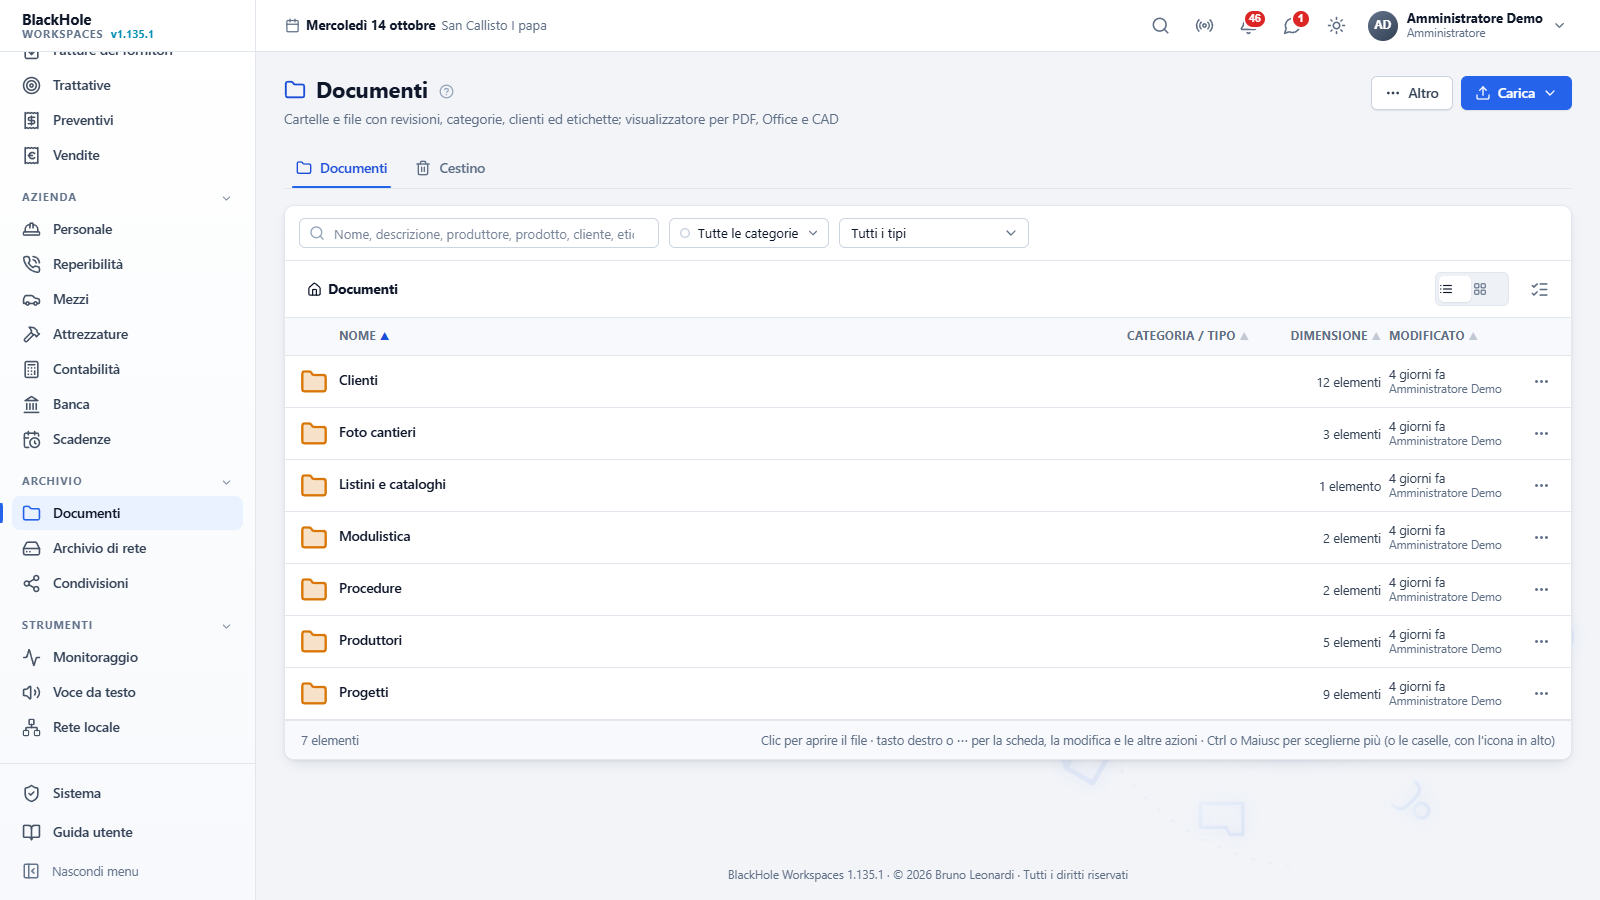
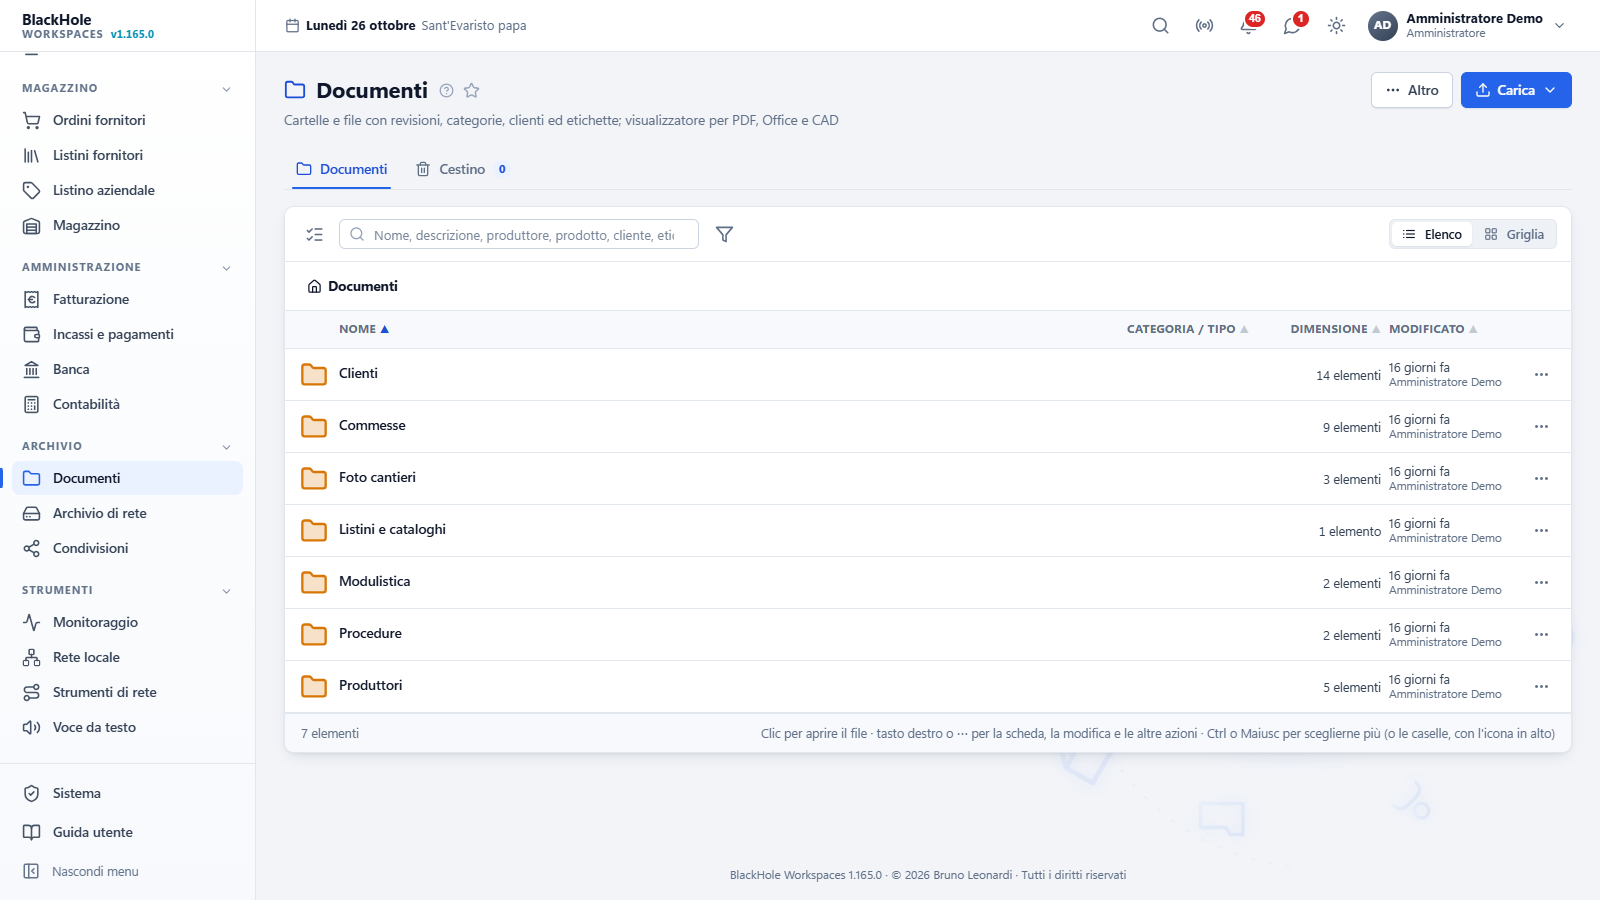
BlackHole Workspaces 1.165.0: attività e ore dei progetti, materiale della commessa, policy per reparto; immagini della guida rifatte con dati inventati

diff --git a/docs/guida/gruppi-policy.md b/docs/guida/gruppi-policy.md
@@ -60,7 +60,7 @@ Nella scheda di una policy i permessi sono raggruppati per area, ciascuno con la
 | Responsabile dei clienti | Modificare tutti i clienti · Creare clienti · Eliminare qualsiasi cliente · Svuotare il cestino dei clienti · Gestire i gruppi di clienti · Esportare · Importare. |
 | Rubrica personale | Rubrica personale (con Esportare e Importare, se servono). |
 | Gestione del personale | Creare utenti · Modificare gli utenti · Gestire la sicurezza degli utenti. |
-| Tecnico | Vedere le commesse (vede i cantieri e le loro attività; sulle proprie attività lavora e registra le ore anche senza permessi). La policy proposta **Tecnici** è il punto di partenza completo. |
+| Tecnico | Vedere le commesse (vede i cantieri e le loro attività; sulle proprie attività lavora e registra le ore anche senza permessi). La policy proposta **Squadre in campo** è il punto di partenza per chi lavora sul campo. |
 | Capo commessa | Creare commesse · Gestire le attività delle commesse · Vedere le ore di tutti. |
 | Direzione lavori | Gestire tutte le commesse · Gestire tutte le attività · Vedere le ore di tutti. |
 | Password del reparto | Condividere le password (comprende Usare la gestione password). |
@@ -88,19 +88,23 @@ Chi lavora sul campo non deve arrivare ai dati amministrativi. Per questo alcuni
 - **Vedere la contabilità**: prima nota, IVA, mastrini e bilancio.
 - **Budget e consuntivo delle commesse**: ricavi, costi e margini delle commesse, con il costo delle ore.
 
-Nessun permesso riservato si concede da solo: anche chi ha tutto il resto di un'area non li ha finché non vengono spuntati. Il resto del programma non mostra importi: le ore delle attività, le scadenze dell'azienda, l'assistenza e le manutenzioni non ne hanno; il listino mostra i prezzi di vendita a chi ha *Vedere il listino*, che le policy proposte non danno ai tecnici.
+Nessun permesso riservato si concede da solo: anche chi ha tutto il resto di un'area non li ha finché non vengono spuntati. Il resto del programma non mostra importi: le ore delle attività, le scadenze dell'azienda, l'assistenza e le manutenzioni non ne hanno; il listino mostra i prezzi di vendita a chi ha *Vedere il listino*, che le policy proposte danno solo a Progettazione e Acquisti.
 
-**Policy proposte**, nella pagina Policy, apre quattro policy già pensate, da creare con un clic e poi adattare (si aprono nella scheda, dove si controllano i permessi prima di crearle; non sono applicate a nessun gruppo finché non lo decidi tu):
+**Policy proposte**, nella pagina Policy, apre una policy per reparto, da creare con un clic e poi adattare (si aprono nella scheda, dove si controllano i permessi prima di crearle; non sono applicate a nessun gruppo finché non lo decidi tu). Quello che un reparto non ha dentro e gli serve si dà a mano: la scheda di ogni policy dice quale.
 
 | Policy | Per chi | Dati riservati |
 | --- | --- | --- |
-| Ufficio | Chi segue clienti, commesse, impianti, certificazioni, assistenza, mezzi, listino, magazzino, acquisti, preventivi, DDT e bozze delle fatture: tutto il lavoro d'ufficio, con documenti, progetti, personale (senza retribuzioni), scadenze, monitoraggio, password e assistente AI. | Dati amministrativi dei clienti, costi dei mezzi, listino completo (e quindi costi e margini dei preventivi). |
-| Amministrazione | Chi fa i conti: clienti con i dati amministrativi e la valutazione, personale con retribuzioni e documenti personali, costi dei mezzi, listino, magazzino e acquisti (in lettura), fatture, incassi e fattura elettronica, budget e consuntivo delle commesse, scadenze dell'azienda, ore di tutti, registro attività. | Tutti. |
-| Tecnici | Chi lavora sul campo: vede clienti, documenti e commesse, gestisce impianti e schede tecniche, compila certificazioni, registra manutenzioni e assistenza, usa i mezzi e la merce del proprio furgone, le password e l'assistente AI. | Nessuno. |
+| Reception | Il banco e il telefono: apre e pianifica le richieste di assistenza, vede la reperibilità e le scadenze, crea e corregge i clienti. Da dare a mano, se servono: Gestire l'assistenza e Gestire la reperibilità. | Nessuno. |
+| Progettazione (ufficio tecnico) | Preventivi, commesse con le loro attività, impianti, pratiche, certificazioni, manutenzioni e listino in lettura. Il SAL e il budget della commessa si danno a mano all'ingegnere che li prepara; emettere le certificazioni (di solito il responsabile tecnico) si dà a mano. | Nessuno. |
+| Acquisti | Ordini e richieste d'offerta, solleciti, prezzi da verificare, listini dei fornitori con gli sconti, listino aziendale e magazzino in lettura. Per registrare l'arrivo della merce serve a mano Registrare i movimenti del magazzino. | Vedere gli acquisti e Costi e ricarichi del listino. |
+| Magazziniere | Movimenti in tutti i magazzini e nei furgoni, inventari e riordino, senza costi né prezzi d'acquisto. Per gli ordini in arrivo serve a mano Vedere gli acquisti; per i DDT, Preparare DDT e fatture (mostrano gli importi). | Nessuno. |
+| Amministrazione | Fatture e note di credito, DDT da fatturare, incassi e pagamenti, fatture dei fornitori, banca, contabilità e dati amministrativi dei clienti. Il budget delle commesse, i costi dei mezzi e quelli del personale si danno a mano. | Dati amministrativi dei clienti, vendite, fatture dei fornitori, banca e contabilità. |
+| Squadre in campo | Le proprie attività e presenze, l'assistenza assegnata, il proprio furgone, le commesse con il materiale in quantità, senza prezzi. Compilare le certificazioni, registrare i rapporti di manutenzione e modificare gli impianti si danno a mano, se la squadra li fa. | Nessuno. |
+| Commercialista | Lo studio che tiene o controlla la contabilità: prima nota, registri IVA, liquidazioni, mastrini, bilancio, fatture e banca. Non cambia niente. | Contabilità, vendite, fatture dei fornitori e banca. |
 | Sola consultazione | Guarda senza cambiare nulla (anche il magazzino), listino escluso. | Nessuno. |
 
 > [!TIP]
-> **Revisione delle policy.** Apri la pagina Policy e guarda la colonna Permessi: le policy con *dati riservati* vanno solo ai gruppi dell'ufficio. Se i tecnici hanno una policy con il lucchetto, aprila e togli i permessi riservati, oppure sostituiscila con la policy proposta Tecnici.
+> **Revisione delle policy.** Apri la pagina Policy e guarda la colonna Permessi: le policy con *dati riservati* dovrebbero andare solo ai gruppi di Amministrazione, Acquisti e Commercialista. Se un'altra policy ha il lucchetto, aprila e togli i permessi riservati, oppure sostituiscila con la policy proposta del suo reparto.
 
 ## <a id="policy-regole"></a>Regole di sicurezza
 

diff --git a/docs/guida/progetti.md b/docs/guida/progetti.md
@@ -15,6 +15,7 @@ Un clic su una commessa apre la sua **pagina**:
 - la linguetta **Impianti**: gli [impianti](impianti.md#impianti-progetti) che la commessa realizza o modifica, per chi può vederli;
 - la linguetta **Certificazioni**: le [certificazioni](certificazioni.md) collegate alla commessa, per chi può vederle; **Nuova certificazione** parte da uno degli impianti della commessa;
 - la linguetta **Preventivi**: i [preventivi](preventivi.md#preventivi-commessa) della commessa;
+- la linguetta **Materiale**, con il magazzino acceso: il [materiale movimentato](#commesse-materiale) per la commessa, in quantità;
 - la linguetta **Budget**, per chi ha il permesso riservato: il [budget e il consuntivo](#progetti-budget) della commessa;
 - la linguetta **Documenti**: la [cartella della commessa](#progetti-documenti);
 - la linguetta **Storico**: chi ha cambiato che cosa nella commessa (dati, responsabile, membri, riservatezza, cliente) e quali attività sono state create, completate, eliminate, collegate o scollegate.
@@ -61,6 +62,16 @@ Il **tipo** (Cantiere, Manutenzione, Interna…) si sceglie da un elenco uguale 
 - Chi vede la commessa vede anche le sue attività; ci lavorano, come sempre, assegnatari, revisore e chi le riceve in condivisione (vedi [chi può fare che cosa](attivita.md#attivita-assegnare)).
 - L'avanzamento della commessa conta tutte le attività collegate, sottoattività comprese; le ore della commessa sono quelle registrate sulle sue attività.
 
+## <a id="commesse-materiale"></a>Il materiale della commessa
+
+Dalla 1.165.0 la linguetta **Materiale** mostra il materiale movimentato per la commessa, senza andarlo a cercare nel [magazzino](magazzino.md). Sono **solo quantità**: niente prezzi, costi né importi, così la vede anche chi lavora in campo senza il permesso dei costi. La vede chi vede la commessa (una commessa riservata solo chi ne fa parte); il costo del materiale resta nel [Budget](#progetti-budget).
+
+- In alto quante voci sono uscite, quante rientrate, quante sono ancora in cantiere e quanti DDT ha la commessa.
+- **Materiale per voce**: **Uscito** (gli scarichi per la commessa, dal magazzino o dal furgone, e la merce consegnata con i DDT della commessa), **Rientrato** (i rientri da cantiere registrati per la commessa), **Netto** (la differenza) e **In cantiere** (la merce ancora nei magazzini presso il cliente collegati alla commessa), con l'unità e, sotto la descrizione, le matricole uscite.
+- **Registrazioni di magazzino**: quelle della commessa e i trasferimenti verso o dai suoi cantieri, con la causale, da dove a dove, il riferimento (con il DDT) e chi le ha registrate. Un clic apre la registrazione a chi vede quel magazzino.
+- **DDT**: i DDT della commessa con numero, data, stato e magazzino, senza importi; un clic li apre in Fatturazione a chi la vede.
+- Il materiale compare quando si scarica per la commessa (causale **Scarico per commessa o impianto**), quando si emette un DDT della commessa (dalla 1.165.0 lo scarico del DDT ricorda la commessa, anche nel [consuntivo](#progetti-budget)) o quando la merce si trasferisce al cantiere del cliente. La merce nel furgone non è di una commessa finché non si scarica per lei.
+
 ## <a id="progetti-documenti"></a>Documenti della commessa
 
 - Alla creazione della commessa, con la casella **Crea la cartella della commessa in Documenti** spuntata, nasce la cartella **Documenti → Commesse → *codice nome***, collegata al cliente e, se la commessa è riservata, riservata alle stesse persone: i membri con il loro ruolo e il responsabile con la modifica. Si riallinea da sola quando cambiano riservatezza, cliente, responsabile o membri. Con l'aggiornamento alla 1.164.0 la cartella **Progetti** che c'era già si rinomina da sola in **Commesse**, con dentro le stesse sottocartelle.
@@ -80,7 +91,7 @@ Nella scheda Modelli, **Esporta tutti** e **Importa…** (e **Esporta il modello
 
 ## <a id="progetti-budget"></a>Budget e consuntivo
 
-Per ogni commessa si confronta quanto si era **previsto** con quanto si è **speso** e **fatturato**, mentre il lavoro va avanti. Lo vede solo chi ha il permesso riservato **Budget e consuntivo delle commesse** (nella policy proposta Amministrazione): nella pagina della commessa la linguetta **Budget**, nella pagina Commesse la scheda **Economia** con tutte le commesse.
+Per ogni commessa si confronta quanto si era **previsto** con quanto si è **speso** e **fatturato**, mentre il lavoro va avanti. Lo vede solo chi ha il permesso riservato **Budget e consuntivo delle commesse** (nessuna policy proposta lo concede: si dà a mano, di solito all'ingegnere che prepara il SAL): nella pagina della commessa la linguetta **Budget**, nella pagina Commesse la scheda **Economia** con tutte le commesse.
 
 - **Il previsto**: ricavo, ore di manodopera e costi per voce (manodopera, materiale, prestazioni esterne, altre spese). Finché non lo scrivi vale la **proposta dai preventivi accettati** della commessa: il loro imponibile (con lo sconto) come ricavo, il costo delle righe per tipo (materiale, prestazioni, manodopera), le ore di manodopera e di posa; le ore di posa sono valorizzate al costo orario medio del personale. **Scrivi il budget** apre il pannello a destra con i numeri proposti, da correggere; **Riprendi la proposta** li rimette, **Togli il budget** torna alla proposta. Nel pannello anche la soglia dell'**avviso** (90 % se non la cambi) e le note.
 - **Il fatto** si calcola da solo da quello che c'è già nel programma:

diff --git a/docs/guida/attivita.md b/docs/guida/attivita.md
@@ -12,6 +12,7 @@ La pagina ha due schede: **Attività**, con le viste elenco, kanban, calendario 
 
 - **Titolo** e **Sottoattività di**: un'attività può essere il passo di un'altra più grande (un solo livello); le sottoattività compaiono nella scheda dell'attività principale, con l'avanzamento, e si aggiungono anche da lì scrivendo il titolo e premendo <kbd>Invio</kbd>.
 - **Commessa**, facoltativa: **Nessuna commessa** oppure una delle commesse di cui [gestisci le attività](progetti.md#progetti-attivita). Collegata, l'attività porta il codice della commessa, compare nella sua pagina e la vede anche chi vede la commessa. Si scollega o si sposta in un'altra commessa in ogni momento, cambiando il campo; le sottoattività stanno sempre nella commessa della principale e la seguono.
+- **Progetto** (dalla 1.165.0): un'attività creata dalla scheda di un [progetto](trattative.md#trattative-attivita) (sopralluogo, disegni, calcoli per preparare l'offerta) mostra il progetto al posto della commessa, con il suo cliente: le sue ore sono il costo dell'offerta. **Togli** la libera e torna il campo della commessa; un'attività sta in un progetto oppure in una commessa, non in tutti e due.
 - **Cliente**, facoltativo: il cliente per cui si lavora; scegliendo una commessa che ha un cliente viene proposto il suo. L'attività compare nella [scheda Attività del cliente](clienti.md#clienti-documenti). Si scelgono solo i clienti che puoi vedere; un cliente collegato da altri che non puoi vedere compare come *Cliente riservato* e resta collegato.
 - **Impianto**, facoltativo, per chi può vedere gli impianti: uno degli [impianti](impianti.md) del cliente scelto (prima quelli in servizio, poi i dismessi). L'attività diventa un suo [intervento](impianti.md#impianti-interventi) e compare nella pagina dell'impianto, anche dopo la chiusura della commessa; cambiando cliente, l'impianto di un altro cliente si toglie.
 - **Stato**: **Da fare**, **In corso**, **In attesa** (ferma per qualcosa che non dipende da te), **In revisione**, **Completata**. **Priorità**: bassa, normale, alta, urgente (bandierina arancione o rossa).

diff --git a/docs/guida/README.md b/docs/guida/README.md
@@ -3,7 +3,7 @@
 [← Torna alla presentazione](../../README.md) · [Scarica il setup](https://github.com/brn78/BlackHole-Workspaces/releases/latest)
 
 > [!NOTE]
-> È la stessa guida che si apre nella piattaforma con <kbd>F1</kbd> (menu **Guida utente**), aggiornata alla versione **1.164.2**. Nella piattaforma le icone **(?)** accanto ai campi portano direttamente al paragrafo giusto.
+> È la stessa guida che si apre nella piattaforma con <kbd>F1</kbd> (menu **Guida utente**), aggiornata alla versione **1.165.0**. Nella piattaforma le icone **(?)** accanto ai campi portano direttamente al paragrafo giusto.
 
 BlackHole Workspaces è la piattaforma web per i servizi dell'azienda: un unico posto, protetto da accesso personale, in cui gestire attività, appunti, password, clienti, commesse, documenti, persone e, via via, gli altri servizi. Questa guida descrive ogni funzione così come la vedi a schermo e viene aggiornata a ogni nuova versione.
 
@@ -118,6 +118,7 @@ BlackHole Workspaces è la piattaforma web per i servizi dell'azienda: un unico 
    - [La scheda della commessa](progetti.md#progetti-scheda)
    - [Tipi delle commesse](progetti.md#progetti-tipi)
    - [Le attività della commessa](progetti.md#progetti-attivita)
+   - [Il materiale della commessa](progetti.md#commesse-materiale)
    - [Documenti della commessa](progetti.md#progetti-documenti)
    - [Modelli di commessa](progetti.md#progetti-modelli)
    - [Budget e consuntivo](progetti.md#progetti-budget)
@@ -237,6 +238,7 @@ BlackHole Workspaces è la piattaforma web per i servizi dell'azienda: un unico 
    - [Un progetto da un testo](trattative.md#trattative-da-testo)
    - [Prossimo passo e cliente sentito](trattative.md#trattative-prossimo-passo)
    - [I preventivi del progetto](trattative.md#trattative-preventivi)
+   - [Attività e ore del progetto](trattative.md#trattative-attivita)
    - [Accettati e rifiutati](trattative.md#trattative-chiusura)
    - [Accettato: la commessa](trattative.md#trattative-commessa)
    - [Importare ed esportare](trattative.md#trattative-importa)

diff --git a/CHANGELOG.md b/CHANGELOG.md
@@ -4,6 +4,33 @@ Il setup di ogni versione è nella pagina [Releases](https://github.com/brn78/Bl
 Per aggiornare basta **Scarica e installa** in *Sistema → Impostazioni → Aggiornamento del programma* (dalla 1.136.0),
 oppure caricare il setup nello stesso riquadro o eseguirlo sul server: dati, account e impostazioni restano.
 
+## 1.165.0 · 26 ottobre 2026
+
+**Novità**
+
+- **Attività e ore del progetto**: il lavoro per preparare un'offerta (sopralluogo, disegni, calcoli) si segue con le
+  attività del progetto e le loro ore, anche quando il cliente rifiuta. La scheda del progetto ha la parte «Attività e
+  ore» con il totale; chi vede budget e consuntivo delle commesse vede anche il costo. La Previsione ha il riquadro
+  «Costo delle offerte» per in corso, accettati e rifiutati; il kanban e gli accettati e rifiutati mostrano le ore.
+  Un'attività sta in un progetto oppure in una commessa.
+- **Materiale nella commessa**: la nuova linguetta mostra il materiale movimentato per la commessa, voce per voce: uscito,
+  rientrato, netto e ancora in cantiere, con le matricole, le registrazioni di magazzino e i DDT. Solo quantità, mai
+  prezzi: la vede anche chi lavora in campo.
+- **Policy proposte per reparto**: Reception, Progettazione, Acquisti, Magazziniere, Amministrazione e Squadre in campo,
+  più Commercialista e Sola consultazione. Si sommano (chi fa due lavori ne riceve due); i dati riservati ci sono solo
+  dove sono il lavoro del reparto, gli altri si danno a mano. Le policy già create non cambiano.
+
+**Correzioni**
+
+- Lo scarico di magazzino di un DDT ricorda la sua commessa, e il materiale consegnato con i DDT arriva al consuntivo
+  della commessa (anche per i DDT già emessi).
+- Il magazzino non mostra il nome di una commessa riservata a chi non ne fa parte, e il netto degli ordini ai fornitori
+  resta nascosto a chi non vede i costi.
+
+**Dati dimostrativi**
+
+- I dati dimostrativi e le immagini della documentazione usano solo luoghi inventati.
+
 ## 1.164.2 · 25 ottobre 2026
 
 **Sicurezza**

diff --git a/docs/guida/clienti.md b/docs/guida/clienti.md
@@ -264,7 +264,7 @@ Il giudizio è la media pesata degli aspetti che si possono calcolare (come paga
 
 - Nell'elenco dei clienti la colonna **Valutazione** mostra punteggio e giudizio (clic sull'intestazione per ordinare: i migliori in alto, o quelli da seguire); nel menu della riga, **Valutazione** apre la linguetta. Il filtro **Tutti i giudizi**, accanto a quello dello stato, mostra soltanto gli ottimi, i buoni, quelli nella media, da seguire, con l'attenzione, **da seguire o attenzione** insieme (per la telefonata o il sollecito), oppure quelli **senza giudizio**; vale anche per la stampa dell'elenco (dalla 1.130.1).
 - Nei [preventivi](preventivi.md) (dalla 1.131.0): nel **Nuovo preventivo** (e nella copia per un altro cliente), sotto il cliente scelto, l'avviso con il giudizio, la frase e il primo consiglio, insieme a quello dei pagamenti; nella scheda del preventivo, accanto al cliente, la pillola **Valutazione** (passa sopra per la frase e il consiglio).
-- È un [dato riservato](gruppi-policy.md#policy-riservati) (permesso **Valutazione dei clienti**, nella policy proposta Amministrazione) e non compare mai in quello che vede il cliente: condivisioni, link del preventivo, stampe.
+- È un [dato riservato](gruppi-policy.md#policy-riservati) (permesso **Valutazione dei clienti**, che nessuna policy proposta concede: si dà a mano) e non compare mai in quello che vede il cliente: condivisioni, link del preventivo, stampe.
 - Vale per i clienti, non per i potenziali clienti né per i fornitori. Un cliente nuovo, senza lavori, non ha ancora niente da valutare.
 
 ## <a id="clienti-permessi"></a>Permessi

diff --git a/docs/guida/contabilita.md b/docs/guida/contabilita.md
@@ -92,7 +92,7 @@ Mastri e conti con codice, nome, **natura** (attività, passività e netto, cost
 | Registrare in contabilità | Scritture libere, conti e detraibilità delle righe delle fatture dei fornitori, cespiti, scritture di assestamento, ratei e risconti. |
 | Gestire la contabilità | Impostazioni, piano dei conti e ruoli, chiusura e riapertura delle liquidazioni, versamenti, chiusura e riapertura dell'esercizio. |
 
-Le policy proposte: *Amministrazione* gestisce la contabilità; *Commercialista* (per lo studio) vede contabilità, vendite e fatture dei fornitori senza cambiare niente.
+Le policy proposte: *Amministrazione* gestisce fatture, incassi, banca e contabilità; *Commercialista* (per lo studio) vede contabilità, vendite, fatture dei fornitori e banca senza cambiare niente.
 
 ---
 

diff --git a/docs/guida/fatture-fornitori.md b/docs/guida/fatture-fornitori.md
@@ -44,7 +44,7 @@ Poi **Controllata**, oppure **Contesta al fornitore** con il motivo (va nelle no
 | Importare e controllare le fatture dei fornitori | Importare i file, abbinare le righe agli ordini (per scegliere a mano serve anche *Vedere gli acquisti*), segnarle controllate o contestate, data di ricezione, commessa e note. |
 | Pagare le fatture dei fornitori | Pagamenti, rate, compensazioni, lo storico già pagato, eliminare una fattura importata per sbaglio (si può reimportare dal file). |
 
-Le policy proposte: *Ufficio* importa e controlla, *Amministrazione* paga.
+Le policy proposte: *Amministrazione* importa, controlla e paga le fatture dei fornitori.
 
 ---
 
